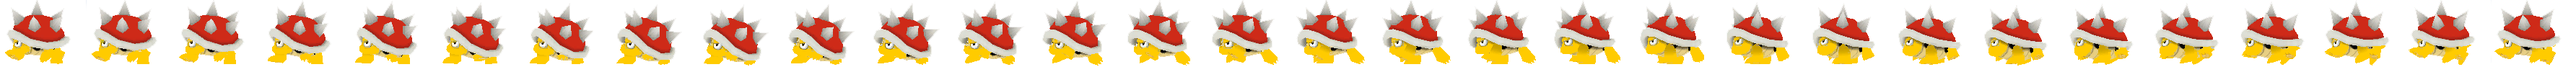
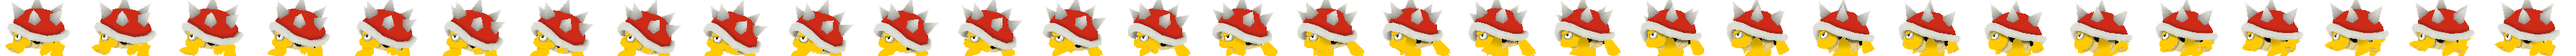
fix flying enemies

diff --git a/enemy.h b/enemy.h
@@ -54,14 +54,14 @@ private:
             b2Vec2 vel = _body->GetLinearVelocity();
             vel.x = -1.5;
             _body->SetLinearVelocity( vel );
-            setPixmap(_curPixmap.copy(_curFrame, 0, 45, 75));
+            setPixmap(_curPixmap.copy(_curFrame, 0, 45, 55));
         }
         else {
             b2Vec2 vel = _body->GetLinearVelocity();
             vel.x = 1.5;
             _body->SetLinearVelocity( vel );
-            setPixmap(_curPixmap.copy(_curFrame, 0, 45, 75).transformed(
-                          QTransform().scale(-1,1).translate(_curPixmap.copy(_curFrame, 0, 45, 75).width(), 0)));
+            setPixmap(_curPixmap.copy(_curFrame, 0, 45, 55).transformed(
+                          QTransform().scale(-1,1).translate(_curPixmap.copy(_curFrame, 0, 45, 55).width(), 0)));
         }
     }
 };
@@ -120,14 +120,14 @@ private:
             b2Vec2 vel = _body->GetLinearVelocity();
             vel.x = -1.5;
             _body->SetLinearVelocity( vel );
-            setPixmap(_curPixmap.copy(_curFrame, 0, 120, 93));
+            setPixmap(_curPixmap.copy(_curFrame, 0, 120, 78));
         }
         else {
             b2Vec2 vel = _body->GetLinearVelocity();
             vel.x = 1.5;
             _body->SetLinearVelocity( vel );
-            setPixmap(_curPixmap.copy(_curFrame, 0, 120, 93).transformed(
-                          QTransform().scale(-1,1).translate(_curPixmap.copy(_curFrame, 0, 120, 93).width(), 0)));
+            setPixmap(_curPixmap.copy(_curFrame, 0, 120, 78).transformed(
+                          QTransform().scale(-1,1).translate(_curPixmap.copy(_curFrame, 0, 120, 78).width(), 0)));
         }
     }
 };

diff --git a/enemy.cpp b/enemy.cpp
@@ -51,7 +51,7 @@ void Enemy::setBody(qreal x, qreal y, b2World *world)
 
     b2CircleShape cShape;
     cShape.m_radius = 0.1;
-    cShape.m_p.Set((float)boundingRect().width() / 200, ((float)boundingRect().height() + 20) / 100);
+    cShape.m_p.Set((float)boundingRect().width()  * scale() / 200, ((float)boundingRect().height() * scale() - 10) / 100);
 
 
     b2FixtureDef fixtureDef;
